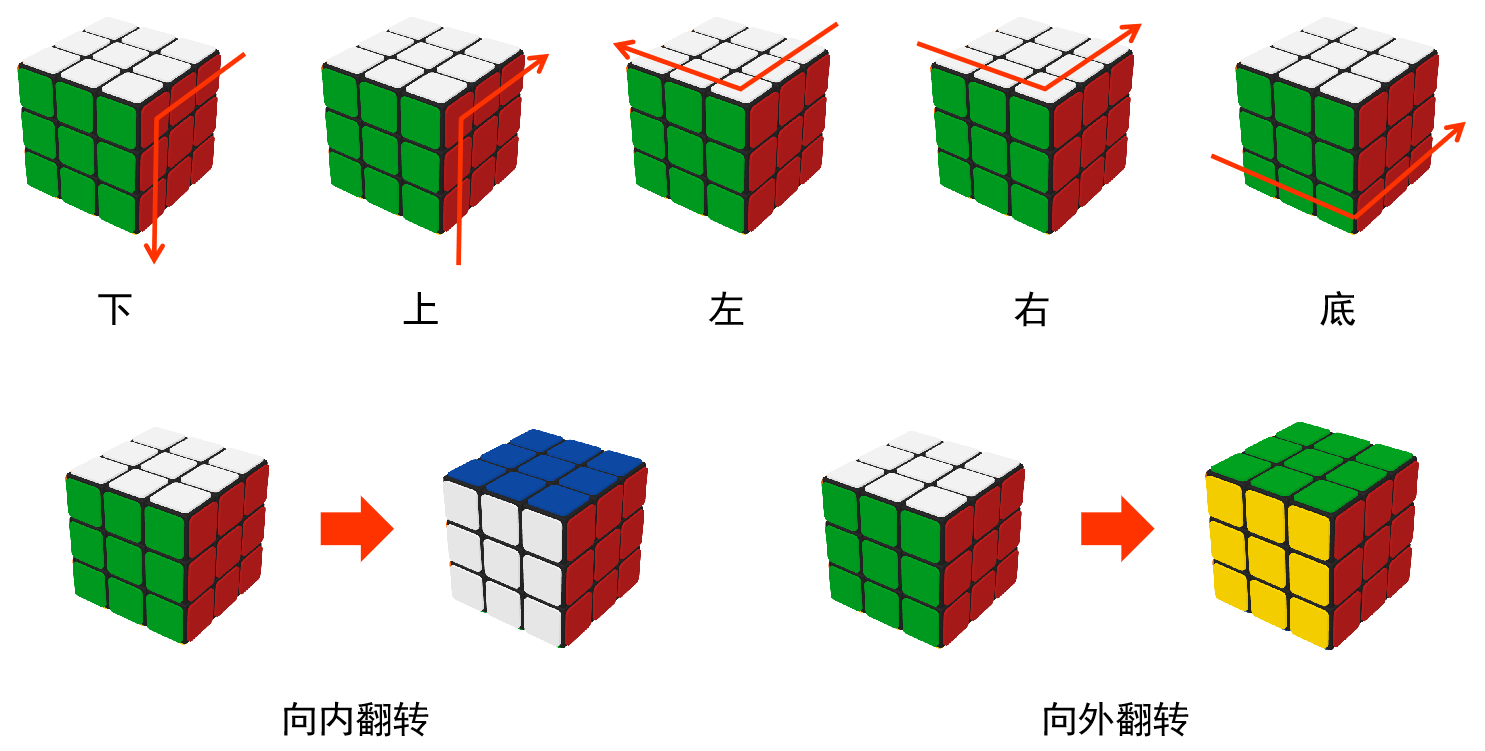
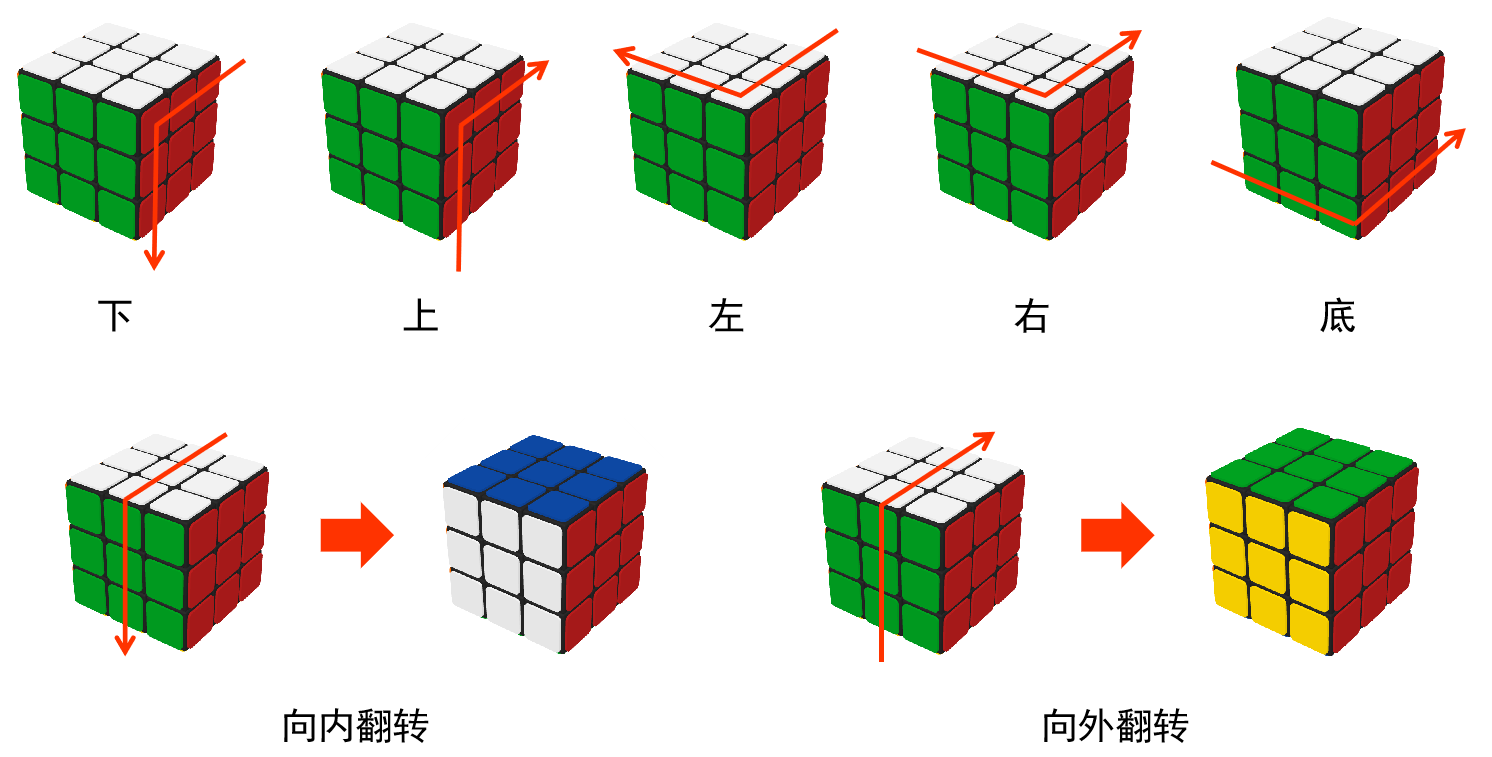
更新

diff --git a/README.md b/README.md
@@ -84,4 +84,4 @@
     
     <p align="center"><img width="600px" src="https://github.com/clos0710/Rubik-Cube/blob/master/img/CubeSolve4.png" /></p>
     
-    
+    是的，记住上面7个旋转手法就能还原魔方（不需要辛马斯特标记这么复杂，不好记）。
